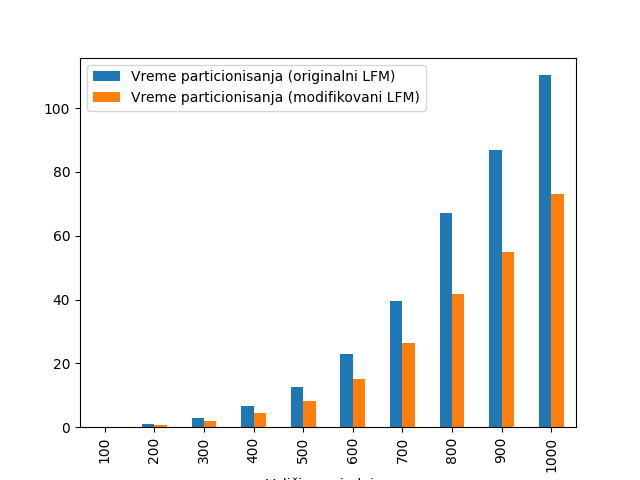
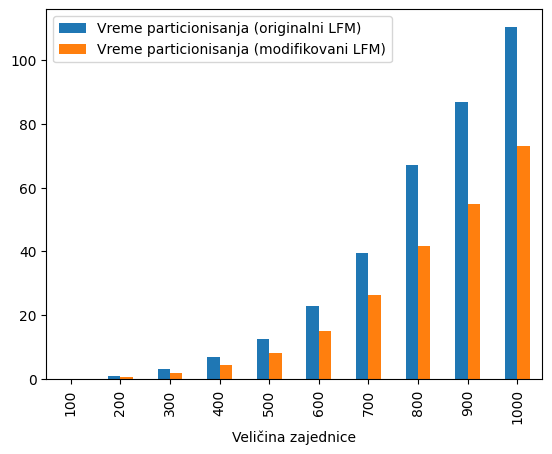
Add new images and update generate.py
Update presentation.tex with new date and fix typos

diff --git a/presentation/presentation.tex b/presentation/presentation.tex
@@ -25,6 +25,7 @@ Univerzitet u Novom Sadu. \\
 Tip rada: master rad \\
 Mentor: \MakeLowercase{dr} Miloš Savić
 }
+\date{23. septembar 2024.}
 
 \frame{
 \titlepage
@@ -69,7 +70,7 @@ Mentor: \MakeLowercase{dr} Miloš Savić
 	\begin{tikzpicture}[node distance=2cm]
 		\node (q1) [block, text width=8cm, align=center] {Koliko paralelni algoritam ubrzava ceo proces?};
 		\node (q2) [block, text width=8cm, align=center, below of=q1] {Kako paralelizacija utiče na kvalitet rekonstrukcije grafa iz ugrađivanja?};		
-		\node (q3) [block, text width=8cm, align=center, below of=q2] {Koliko je klasterovanje iz ugrađivanja serijskom implementacijom slično sa klasterovanjem i ugrađivanja paralelnom implementacijom};
+		\node (q3) [block, text width=8cm, align=center, below of=q2] {Koliko je klasterovanje iz ugrađivanja serijskom implementacijom slično sa klasterovanjem ugrađivanja paralelnom implementacijom?};
 	\end{tikzpicture}
 \end{frame}
 
@@ -81,7 +82,7 @@ Mentor: \MakeLowercase{dr} Miloš Savić
 \end{frame}
 
 \section{Blokovski prikaz algoritma}
-\begin{frame}{Generalni Algoritam}
+\begin{frame}{Blokovski prikaz algoritma}
     \includegraphics[width=\textwidth]{./png/Blokovski prikaz algoritma.drawio.png}
 \end{frame}
 
@@ -150,14 +151,14 @@ Mentor: \MakeLowercase{dr} Miloš Savić
 \section{ARI}
 \begin{frame}{Adjusted Rand Index (ARI)}
     \begin{itemize}
-        \item Meri sličnost između dve klasterovanja
+        \item Meri sličnost između dva klasterovanja
         \item Vrednost je bliska 0 za slučajno klasterovanje, a 1 za identična klasterovanja
         \item $ \text{ARI} = \frac{\text{RI} - \text{Expected\_RI}}{\text{max(RI)} - \text{Expected\_RI}} $
     \end{itemize}
 \end{frame}
 
-\section{Skupovi Podataka}
-\begin{frame}{Skupovi Podataka}
+\section{Skupovi podataka}
+\begin{frame}{Skupovi podataka}
     \begin{itemize}
         \item Poznati grafovi iz literature 
         \item Twitch mreža
@@ -183,7 +184,7 @@ Mentor: \MakeLowercase{dr} Miloš Savić
     \centering
     \begin{table}
         \label{tab:4.2}
-        \begin{tabular}{lp{1in}p{1in}p{0.5in}}
+        \begin{tabular}{p{1in}p{0.5in}p{0.5in}p{0.5in}}
         Mreža & Vreme particionisanja & Broj čvorova & Broj grana \\
         \hline
         Zaharijev karate klub & 0.001 & 34 & 78 \\
@@ -203,23 +204,7 @@ Mentor: \MakeLowercase{dr} Miloš Savić
 \begin{frame}
     \frametitle{Ukupno vreme ugrađivanja na sintetičkom grafu}
     \centering
-    \begin{table}
-        \label{tab:4.13}
-        \begin{tabular}{p{1in}p{1in}p{1in}}
-            \hline
-            Broj šetnji & Vreme (serijska implementacija) & Vreme (paralelna implementacija) \\
-            \hline
-        300 & 27.032333 & 46.671196 \\
-        600 & 34.207081 & 52.855629 \\
-        900 & 49.972453 & 59.757545 \\
-        1200 & 61.620000 & 68.144959 \\
-        1500 & 72.930000 & 77.180386 \\
-        1800 & 85.400000 & 84.556964 \\
-        2100 & 97.770000 & 93.268643 \\
-        2400 & 109.315041 & 100.895541 \\
-        \hline
-    \end{tabular}
-\end{table}
+    \includegraphics[height=0.8\textheight]{csv/4.13.png}
 \end{frame}
 
 \begin{frame}
@@ -234,46 +219,12 @@ Mentor: \MakeLowercase{dr} Miloš Savić
 
 \begin{frame}{F1 mera rekonstrukcije sintetičkog grafa}
     \centering
-        \begin{table}
-        \label{tab:4.10}
-        \begin{tabular}{p{1in}p{1in}p{1in}}
-        \hline
-        Broj šetnji & F1 mera serijske implementacije & F1 mera paralelne implementacije \\
-        \hline
-        100 & 0.058427 & 0.108415 \\
-        200 & 0.074563 & 0.120501 \\
-        300 & 0.105385 & 0.136140 \\
-        400 & 0.121520 & 0.149141 \\
-        500 & 0.118749 & 0.156055 \\
-        600 & 0.117749 & 0.171991 \\
-        700 & 0.119408 & 0.173323 \\
-        800 & 0.121913 & 0.172578 \\
-        900 & 0.129534 & 0.180858 \\
-        \hline
-    \end{tabular}
-    \end{table}
+    \includegraphics[height=0.8\textheight]{./csv/4.10.png}
 \end{frame}
     
 \begin{frame}{F1 mera rekonstrukcije Zaharijevog karate kluba}
     \centering 
-    \begin{table}
-        \label{tab:4.4}
-        \begin{tabular}{p{1in}p{1in}p{1in}}
-        \hline
-        Broj šetnji & F1 mera serijske implementacije & F1 mera paralelne implementacije \\
-        \hline
-        100 & 0.580310 & 0.575914 \\
-        200 & 0.624504 & 0.654000 \\
-        300 & 0.701834 & 0.645231 \\
-        400 & 0.717563 & 0.708462 \\
-        500 & 0.727480 & 0.711250 \\
-        600 & 0.774543 & 0.725454 \\
-        700 & 0.786713 & 0.744720 \\
-        800 & 0.787490 & 0.721272 \\
-        900 & 0.775203 & 0.717695 \\
-        \hline
-    \end{tabular}
-\end{table}
+    \includegraphics[height=0.8\textheight]{./csv/4.4.png}
 \end{frame}
 
 \begin{frame}{Sličnost klasterovanja}

diff --git a/presentation/csv/generate.py b/presentation/csv/generate.py
@@ -6,7 +6,7 @@ import matplotlib.pyplot as plt
 
 path = sys.argv[1]
 
-images = ["4.3"] 
+images = ["4.3", "4.13", "4.10", "4.4"] 
 
 for file in os.listdir(path):
     if file.endswith('.csv'):
@@ -17,4 +17,4 @@ for file in os.listdir(path):
         else:
             df = df.set_index(df.columns[0])
             df.plot.bar()
-            plt.savefig(os.path.join(path, f"{basename}.png"))
+            plt.savefig(os.path.join(path, f"{basename}.png"), bbox_inches='tight')
